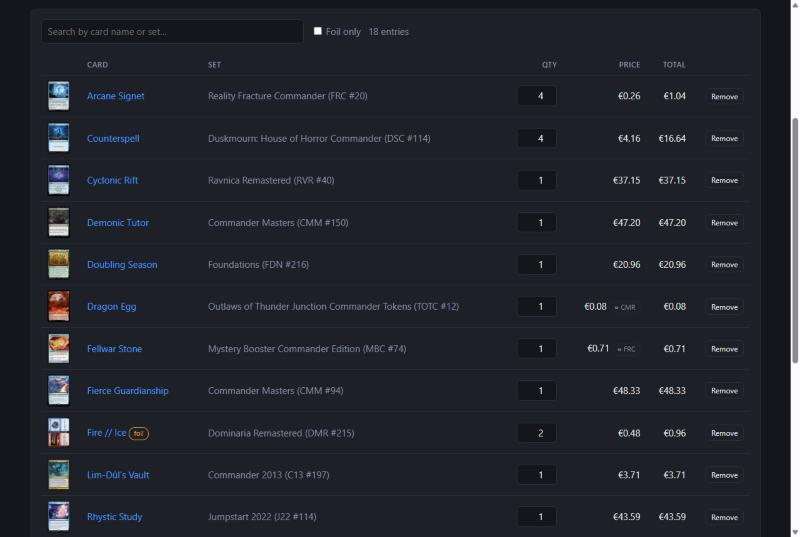
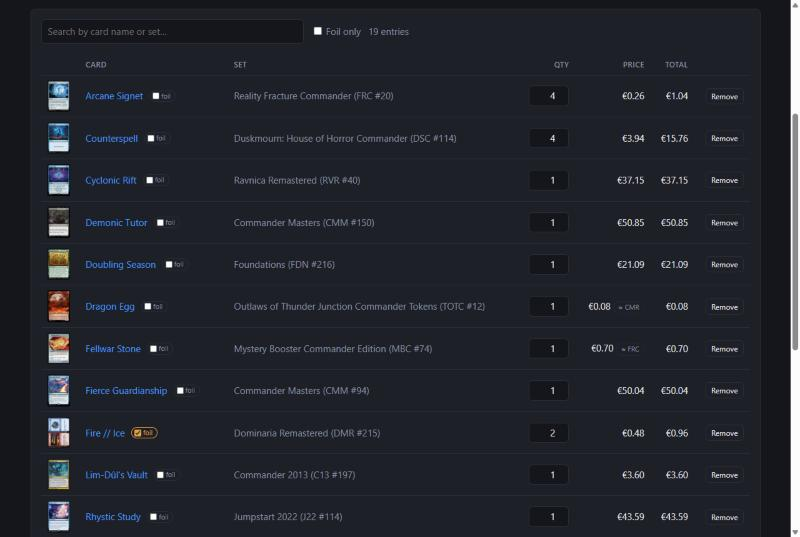
Collection: tick foil on a card you already have
Every collection row has a foil checkbox, so a card no longer has to be
removed and added again to change its finish. Price and totals follow;
if the same printing is already there in the other finish the two entries
are merged, and decks that had chosen those copies follow along. A finish
without a price borrows one from another printing. PATCH
/api/collection/{id} accepts is_foil next to quantity.

Also add a version to the stylesheet link, so browsers stop showing an
old cached stylesheet after an update.

Refresh the collection screenshots in the README.

diff --git a/app/templates/collection.html b/app/templates/collection.html
@@ -52,7 +52,10 @@
       <td>{% if row.card.image_url %}<img class="thumb" src="{{ row.card.image_url }}" alt="" loading="lazy">{% endif %}</td>
       <td>
         <a href="/cards/{{ row.card.id }}">{{ row.card.name }}</a>
-        {% if row.entry.is_foil %}<span class="badge foil">foil</span>{% endif %}
+        <label class="foil-toggle {{ 'on' if row.entry.is_foil }}" title="Tick if your copies of this card are foil">
+          <input type="checkbox" class="foil" data-entry="{{ row.entry.id }}" {{ 'checked' if row.entry.is_foil }}
+                 aria-label="{{ row.card.name }} is foil">foil
+        </label>
       </td>
       <td class="muted">{{ row.card.set_name }} ({{ row.card.set_code | upper }}{% if row.card.collector_number %} #{{ row.card.collector_number }}{% endif %})</td>
       <td class="num">
@@ -164,8 +167,29 @@
       }
     }
 
+    // Foil or not: saved right away. Price, totals and a possible merge with the same card in the
+    // other finish all change, so the page is reloaded at the same spot.
+    async function saveFoil(box) {
+      box.disabled = true;
+      try {
+        const response = await fetch(`/api/collection/${box.dataset.entry}`, {
+          method: "PATCH",
+          headers: { "Content-Type": "application/json" },
+          body: JSON.stringify({ is_foil: box.checked }),
+        });
+        if (!response.ok) throw new Error(`HTTP ${response.status}`);
+        try { sessionStorage.setItem("scroll:" + location.pathname, String(window.scrollY)); } catch (error) {}
+        location.reload();
+      } catch (error) {
+        box.checked = !box.checked;
+        box.disabled = false;
+        box.closest("label").classList.add("failed");
+      }
+    }
+
     table.addEventListener("change", (event) => {
       if (event.target.matches("input.qty")) saveQuantity(event.target);
+      if (event.target.matches("input.foil")) saveFoil(event.target);
     });
     table.addEventListener("submit", (event) => {
       if (!event.target.matches(".qty-form")) return;

diff --git a/app/static/style.css b/app/static/style.css
@@ -175,3 +175,10 @@ button.link:disabled { color: var(--muted); cursor: default; text-decoration: no
 .printing-form { display: flex; flex-wrap: wrap; gap: 6px; align-items: center; margin-top: 2px; }
 .printing-form select { max-width: 340px; margin-top: 0; }
 [hidden] { display: none !important; }
+
+/* Collection: foil checkbox next to the card name */
+.foil-toggle { display: inline-flex; align-items: center; gap: 3px; margin-left: 6px; padding: 0 7px 0 4px; font-size: 11px;
+  border: 1px solid var(--border); border-radius: 10px; color: var(--muted); cursor: pointer; white-space: nowrap; }
+.foil-toggle.on { border-color: var(--accent); color: var(--accent); }
+.foil-toggle.failed { border-color: var(--down); color: var(--down); }
+.foil-toggle input { margin: 0; padding: 0; width: 11px; height: 11px; accent-color: var(--accent); }

diff --git a/app/templates/base.html b/app/templates/base.html
@@ -4,7 +4,7 @@
   <meta charset="utf-8">
   <meta name="viewport" content="width=device-width, initial-scale=1">
   <title>{% block title %}MTG Collection Manager{% endblock %}</title>
-  <link rel="stylesheet" href="/static/style.css">
+  <link rel="stylesheet" href="/static/style.css?v={{ asset_version() }}">
 </head>
 <body>
   <header class="nav">

diff --git a/tests/test_api.py b/tests/test_api.py
@@ -309,3 +309,60 @@ def test_remove_all_from_the_wishlist(client):
     client.post("/api/wishlist", json={"name": "Fire // Ice", "target_price": 2})
     assert client.delete("/api/wishlist").json() == {"removed": 2}
     assert client.delete("/api/wishlist").json() == {"removed": 0}
+
+
+def test_mark_a_collection_card_as_foil(client):
+    entry = client.post("/api/collection", json={"name": "Sol Ring", "set_code": "cmm", "quantity": 2}).json()
+    assert (entry["is_foil"], entry["unit_price"]) == (False, 1.5)
+    url = f"/api/collection/{entry['id']}"
+
+    page = client.get("/collection").text
+    assert f'class="foil" data-entry="{entry["id"]}"' in page and "checked" not in page.split('class="foil"')[1][:80]
+
+    foil = client.patch(url, json={"is_foil": True}).json()
+    assert (foil["id"], foil["is_foil"], foil["quantity"], foil["unit_price"], foil["total_price"]) == (entry["id"], True, 2, 4.0, 8.0)
+    assert client.get("/api/collection").json()["total_value"] == 8.0
+    assert "checked" in client.get("/collection").text.split('class="foil"')[1][:80]
+
+    back = client.patch(url, json={"is_foil": False, "quantity": 3}).json()  # both at once
+    assert (back["is_foil"], back["quantity"], back["total_price"]) == (False, 3, 4.5)
+    assert client.patch(url, json={"is_foil": False}).json()["quantity"] == 3  # no change is fine
+
+    assert client.patch(url, json={}).status_code == 400
+    assert client.patch("/api/collection/9999", json={"is_foil": True}).status_code == 404
+
+
+def test_marking_foil_merges_with_the_foil_copies_you_already_have(client):
+    regular = client.post("/api/collection", json={"name": "Sol Ring", "set_code": "cmm", "quantity": 2}).json()
+    foil = client.post("/api/collection", json={"name": "Sol Ring", "set_code": "cmm", "is_foil": True}).json()
+    deck = client.post("/api/decks", json={"name": "Ramp", "decklist": "1 Sol Ring"}).json()
+    card = deck["cards"][0]
+    client.put(f"/api/decks/{deck['id']}/cards/{card['entry_id']}/printing", json={"collection_entry_id": regular["id"]})
+
+    merged = client.patch(f"/api/collection/{regular['id']}", json={"is_foil": True}).json()
+    assert (merged["id"], merged["quantity"], merged["is_foil"]) == (foil["id"], 3, True)
+    items = client.get("/api/collection").json()["items"]
+    assert len(items) == 1 and items[0]["total_price"] == 12.0
+
+    # The deck that had picked those copies follows them to the merged entry.
+    after = client.get(f"/api/decks/{deck['id']}").json()["cards"][0]
+    assert (after["chosen_collection_entry_id"], after["missing"]) == (foil["id"], 0)
+
+
+def test_foil_without_a_foil_price_borrows_one(client, fake_scryfall):
+    from tests.conftest import scryfall_json
+
+    fake_scryfall.cards.append(scryfall_json("Lim-Dûl's Vault", "id-vault-foil", "c13", eur="3.00", eur_foil="8.00"))
+    entry = client.post("/api/collection", json={"name": "Lim-Dûl's Vault", "set_code": "all"}).json()
+    foil = client.patch(f"/api/collection/{entry['id']}", json={"is_foil": True}).json()
+    assert (foil["unit_price"], foil["price_from_set"]) == (8.0, "c13")
+
+
+def test_stylesheet_link_changes_with_the_file(client):
+    import re
+
+    from app.config import BASE_DIR
+
+    version = int((BASE_DIR / "static" / "style.css").stat().st_mtime)
+    assert re.search(rf'href="/static/style\.css\?v={version}"', client.get("/").text)
+    assert client.get(f"/static/style.css?v={version}").status_code == 200

diff --git a/app/services/collection.py b/app/services/collection.py
@@ -6,8 +6,8 @@ from dataclasses import dataclass, field
 from sqlmodel import Session, select
 
 from app.csv_import import ImportRow
-from app.models import Card, CollectionEntry
-from app.scryfall import InvalidCardRequest, ScryfallCard, ScryfallClient
+from app.models import Card, CollectionEntry, DeckPick
+from app.scryfall import InvalidCardRequest, ScryfallCard, ScryfallClient, ScryfallError
 from app.services.pricing import SCRYFALL, latest_snapshots, price_for, price_origin, store_scryfall_card
 
 
@@ -51,6 +51,51 @@ def set_quantity(session: Session, entry: CollectionEntry, quantity: int) -> Col
     entry.quantity = quantity
     session.add(entry)
     session.flush()
+    return entry
+
+
+def set_foil(session: Session, entry: CollectionEntry, is_foil: bool) -> CollectionEntry:
+    """Mark the copies of an entry as foil or non-foil; returns the entry that holds them afterwards.
+
+    If the collection already has this printing in the other finish, the two are
+    merged into that entry, and decks that used these copies follow along.
+    """
+    if entry.is_foil == is_foil:
+        return entry
+    other = session.exec(
+        select(CollectionEntry).where(
+            CollectionEntry.card_id == entry.card_id, CollectionEntry.is_foil == is_foil, CollectionEntry.id != entry.id
+        )
+    ).first()
+    if other is None:
+        entry.is_foil = is_foil
+        session.add(entry)
+        session.flush()
+        return entry
+    other.quantity += entry.quantity
+    session.add(other)
+    for pick in session.exec(select(DeckPick).where(DeckPick.collection_entry_id == entry.id)).all():
+        pick.collection_entry_id = other.id
+        session.add(pick)
+    session.delete(entry)
+    session.flush()
+    return other
+
+
+async def change_finish(
+    session: Session, scryfall: ScryfallClient, entry: CollectionEntry, is_foil: bool
+) -> CollectionEntry:
+    """set_foil, and make sure the new finish has a price (borrowed from another printing if need be)."""
+    entry = set_foil(session, entry, is_foil)
+    snapshot = latest_snapshots(session, SCRYFALL).get(entry.card_id)
+    if price_for(snapshot, entry.is_foil) is None:
+        card = session.get(Card, entry.card_id)
+        try:
+            data = await scryfall.get_by_id(card.scryfall_id)
+            await scryfall.fill_missing_prices([data], {data.scryfall_id} if entry.is_foil else set())
+        except ScryfallError:
+            return entry  # the finish is changed; the price follows with the next update
+        store_scryfall_card(session, data)
     return entry
 
 

diff --git a/app/routers/api.py b/app/routers/api.py
@@ -109,15 +109,29 @@ async def import_collection(
 
 
 @router.patch("/collection/{entry_id}", response_model=CollectionItemOut)
-def update_collection_entry(entry_id: int, payload: CollectionUpdate, session: Session = Depends(get_session)):
-    """Change the number of copies of a card in the collection."""
+async def update_collection_entry(
+    entry_id: int,
+    payload: CollectionUpdate,
+    session: Session = Depends(get_session),
+    scryfall: ScryfallClient = Depends(get_scryfall),
+):
+    """Change the number of copies of a card in the collection, or whether they are foil.
+
+    Changing the finish can merge the entry into an existing one for the same
+    printing; the response is the entry that holds the copies afterwards.
+    """
+    if payload.quantity is None and payload.is_foil is None:
+        raise HTTPException(status_code=400, detail="Send a quantity, is_foil, or both")
     entry = session.get(CollectionEntry, entry_id)
     if entry is None:
         raise HTTPException(status_code=404, detail="Collection entry not found")
-    collection.set_quantity(session, entry, payload.quantity)
+    if payload.quantity is not None:
+        collection.set_quantity(session, entry, payload.quantity)
+    if payload.is_foil is not None:
+        entry = await collection.change_finish(session, scryfall, entry, payload.is_foil)
     stats.record_daily_total(session)
     session.commit()
-    return CollectionItemOut.from_row(collection.collection_rows(session, entry_id)[0])
+    return CollectionItemOut.from_row(collection.collection_rows(session, entry.id)[0])
 
 
 @router.delete("/collection/{entry_id}", status_code=204)

diff --git a/app/routers/pages.py b/app/routers/pages.py
@@ -30,6 +30,14 @@ def format_eur(value: float | None) -> str:
 templates.env.filters["eur"] = format_eur
 
 
+def asset_version() -> int:
+    """Changes whenever the stylesheet does, so browsers never keep showing an old cached copy."""
+    return int((BASE_DIR / "static" / "style.css").stat().st_mtime)
+
+
+templates.env.globals["asset_version"] = asset_version
+
+
 def render(request: Request, template: str, **context):
     context.setdefault("msg", request.query_params.get("msg"))
     context.setdefault("error", request.query_params.get("error") == "1")

diff --git a/app/schemas.py b/app/schemas.py
@@ -28,7 +28,9 @@ class CollectionAdd(BaseModel):
 
 
 class CollectionUpdate(BaseModel):
-    quantity: int = Field(ge=1)
+    # Send what should change: the number of copies, the finish, or both.
+    quantity: int | None = Field(default=None, ge=1)
+    is_foil: bool | None = None
 
 
 class CollectionItemOut(BaseModel):

diff --git a/README.md b/README.md
@@ -15,7 +15,7 @@ price.
 | --- | --- |
 | ![Top 10 most valuable cards, risers and fallers](docs/dashboard-cards.jpg) | ![Wishlist sorted from expensive to cheap](docs/wishlist.jpg) |
 
-| Collection: add by name or card number, edit quantities | Saved decks, and the randomizer picking a deck for three players |
+| Collection: add by name or card number, edit quantities, tick foil | Saved decks, and the randomizer picking a deck for three players |
 | --- | --- |
 | ![Collection](docs/collection.jpg) | ![Saved decks with their number, bracket, progress and value, and a random deck for each of three players](docs/decks.jpg) |
 
@@ -55,6 +55,7 @@ price.
 - Add cards by name (optionally a specific set, foil or non-foil), or by set + collector number to get one exact version when a set has several
 - CSV import with automatic format detection (Archidekt, Moxfield, or any CSV with a quantity and name column); adds to your collection or replaces it
 - Change the quantity of a card in place, without removing and re-adding it
+- Tick or untick "foil" on a card you already have; price and totals follow, and it merges with the same card in the other finish
 - Instant search in the collection on card name or set (accents and word order do not matter), with a foil-only filter
 - A printing without a price borrows the price of the cheapest printing with the same name, marked "≈ SET"
 - Daily price snapshots, total value over time, top 10 most valuable cards, weekly risers and fallers
@@ -149,7 +150,7 @@ product page. Two things to know:
 | --- | --- | --- |
 | `GET` / `POST` | `/api/collection` | List the collection (`?q=` searches name and set) / add a card and fetch its price |
 | `POST` | `/api/collection/import` | Upload an Archidekt or Moxfield CSV |
-| `PATCH` / `DELETE` | `/api/collection/{id}` | Change the quantity of an entry / remove it |
+| `PATCH` / `DELETE` | `/api/collection/{id}` | Change the quantity or the foil finish of an entry / remove it |
 | `GET` / `POST` | `/api/wishlist` | List the wishlist / watch a card with a max price |
 | `POST` | `/api/wishlist/{id}/purchase` | Move a card from WANT to HAVE |
 | `PUT` | `/api/wishlist/targets` | Set several target prices at once |
